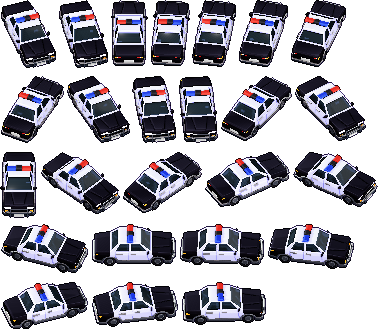
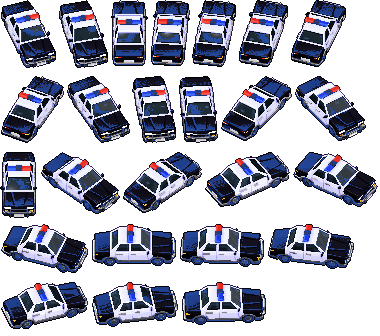
Taxis negro y amarillo y patrulleros blanco y azul, como los de Buenos Aires
- herramientas/repintar_autos.py repinta las hojas del paquete cuadro por cuadro, así todos los rumbos quedan iguales:
  - taxi: carrocería negra y techo amarillo (el techo se crece desde el cartel de TAXI);
  - patrullero: lo negro pasa a azul.
- Los originales del paquete quedan en arte/autos_originales/.

Claude-Session: https://claude.ai/code/session_015eL21ADLwrYXVptdMb8b8s

diff --git a/herramientas/repintar_autos.py b/herramientas/repintar_autos.py
@@ -1,7 +1,8 @@
 #!/usr/bin/env python3
 """Repinta hojas de autos sin Gemini, cuadro por cuadro, para que todos los rumbos queden iguales.
 
-  python3 herramientas/repintar_autos.py taxi_ba        -> img/autos/taxi_ba.png/json (desde taxi)
+  python3 herramientas/repintar_autos.py taxi_ba        -> img/autos/taxi.png (desde arte/autos_originales/taxi.png)
+  (correrlo después de herramientas/hornear_autos.js, que vuelve a escribir img/autos/ desde el paquete)
 
 Taxi de Buenos Aires: carrocería negra y techo amarillo. El techo se encuentra solo: es la parte del color de la carrocería
 que queda encerrada por los vidrios (no toca el borde de la silueta) después de cortar los parantes finos con una erosión.
@@ -24,34 +25,43 @@ def hsv(a):
     return h, s, v
 
 
-def taxi_ba(src="taxi", out="taxi_ba"):
-    j = json.load(open(os.path.join(ROOT, "img/autos", src + ".json")))
-    im = np.array(Image.open(os.path.join(ROOT, "img/autos", src + ".png")).convert("RGBA")).astype(float)
+def taxi_ba(src="taxi", out="taxi"):
+    """El techo es el pedazo de carrocería que rodea al cartel blanco de TAXI: se crece desde el cartel por la carrocería,
+    con una erosión para no pasar por los parantes; si se escapa (más de 45 % de la carrocería) se erosiona más."""
+    # parte siempre del original del paquete (arte/autos_originales/), así se puede correr de nuevo
+    org = os.path.join(ROOT, "arte/autos_originales")
+    j = json.load(open(os.path.join(org, src + ".json")))
+    im = np.array(Image.open(os.path.join(org, src + ".png")).convert("RGBA")).astype(float)
     res = im.copy()
     for n, fr in j["frames"].items():
         f = fr["frame"]; x0, y0, w, h = f["x"], f["y"], f["w"], f["h"]
-        a = im[y0:y0 + h, x0:x0 + w]
+        a = im[y0:y0 + h, x0:x0 + w].copy()
         H, S, V = hsv(a)
         op = a[..., 3] > 0
-        body = op & (H > 15) & (H < 65) & (S > .4) & (V > .3)
-        sil = op & ~ndimage.binary_erosion(op, iterations=2)                    # borde de la silueta
-        er = ndimage.binary_erosion(body, structure=np.ones((3, 3)))
-        lab, nn = ndimage.label(er)
+        body = op & (((H < 70) | (H > 340)) & (S > .35) & (V > .25))
+        sign = op & (S < .2) & (V > .8)
+        lab, nn = ndimage.label(sign)
+        if nn:
+            sizes = ndimage.sum(sign, lab, range(1, nn + 1)); sign = lab == (1 + int(np.argmax(sizes)))
+        seed = ndimage.binary_dilation(sign, iterations=2) & body
         roof = np.zeros_like(body)
-        for k in range(1, nn + 1):
-            comp = lab == k
-            if not (ndimage.binary_dilation(comp, iterations=2) & sil).any() and comp.sum() > 4:
-                roof |= comp
-        roof = ndimage.binary_dilation(roof, iterations=1) & body
+        for it in (1, 2, 3):
+            er = ndimage.binary_erosion(body, structure=ndimage.generate_binary_structure(2, 1), iterations=it) if it else body
+            sd = ndimage.binary_dilation(sign, iterations=2 + it) & er
+            if not sd.any(): continue
+            lab, nn = ndimage.label(er); ids = set(np.unique(lab[sd])) - {0}
+            cand = np.isin(lab, list(ids)); cand = ndimage.binary_dilation(cand, iterations=it) & body
+            if cand.sum() < .45 * body.sum(): roof = cand; break
+        if not roof.any() and sign.any():           # sin techo claro: un círculo alrededor del cartel
+            ys, xs = np.nonzero(sign); cy, cx = ys.mean(), xs.mean(); r = max(3, (xs.max() - xs.min()) * 1.1)
+            yy, xx = np.mgrid[0:h, 0:w]; roof = body & ((yy - cy) ** 2 + (xx - cx) ** 2 < r * r)
         L = (.3 * a[..., 0] + .59 * a[..., 1] + .11 * a[..., 2]) / 255
         blk = body & ~roof
-        # negro brillante: luminancia comprimida, un poco azulado; los brillos quedan
-        k = np.clip(L * .55 + .02, 0, 1)
-        for c, t in enumerate([.92, .95, 1.08]):
+        k = np.clip(L * .42 + .02, 0, 1)
+        for c, t in enumerate([.9, .94, 1.1]):
             a[..., c] = np.where(blk, np.clip(k * 255 * t, 0, 255), a[..., c])
-        # techo amarillo taxi
-        yl = np.clip(L * 1.25, 0, 1.15)
-        for c, base in enumerate([255, 206, 32]):
+        yl = np.clip(.55 + L * .6, 0, 1.1)
+        for c, base in enumerate([255, 204, 26]):
             a[..., c] = np.where(roof, np.clip(base * yl, 0, 255), a[..., c])
         res[y0:y0 + h, x0:x0 + w] = a
     Image.fromarray(res.astype(np.uint8)).save(os.path.join(ROOT, "img/autos", out + ".png"))
@@ -60,5 +70,23 @@ def taxi_ba(src="taxi", out="taxi_ba"):
     print("img/autos/" + out)
 
 
+def policia_ba(src="policia", out="policia"):
+    """Patrullero de la Provincia/Ciudad de Buenos Aires: blanco y azul. Lo negro del paquete (capot, baúl, zócalos) pasa a azul;
+    los vidrios, que también son oscuros, quedan azulados, como los polarizados."""
+    org = os.path.join(ROOT, "arte/autos_originales")
+    j = json.load(open(os.path.join(org, src + ".json")))
+    a = np.array(Image.open(os.path.join(org, src + ".png")).convert("RGBA")).astype(float)
+    H, S, V = hsv(a)
+    op = a[..., 3] > 0
+    edge = op & ~ndimage.binary_erosion(op, iterations=1)                   # el contorno queda como está
+    dark = op & ~edge & (S < .4) & (V < .24)
+    L = V / .24
+    navy = np.stack([16 + 26 * L, 36 + 44 * L, 100 + 64 * L], -1).clip(0, 255)
+    for c in range(3):
+        a[..., c] = np.where(dark, navy[..., c], a[..., c])
+    Image.fromarray(a.astype(np.uint8)).save(os.path.join(ROOT, "img/autos", out + ".png"))
+    print("img/autos/" + out)
+
+
 if __name__ == "__main__":
-    {"taxi_ba": taxi_ba}[sys.argv[1]]()
+    {"taxi_ba": taxi_ba, "policia_ba": policia_ba}[sys.argv[1]]()
